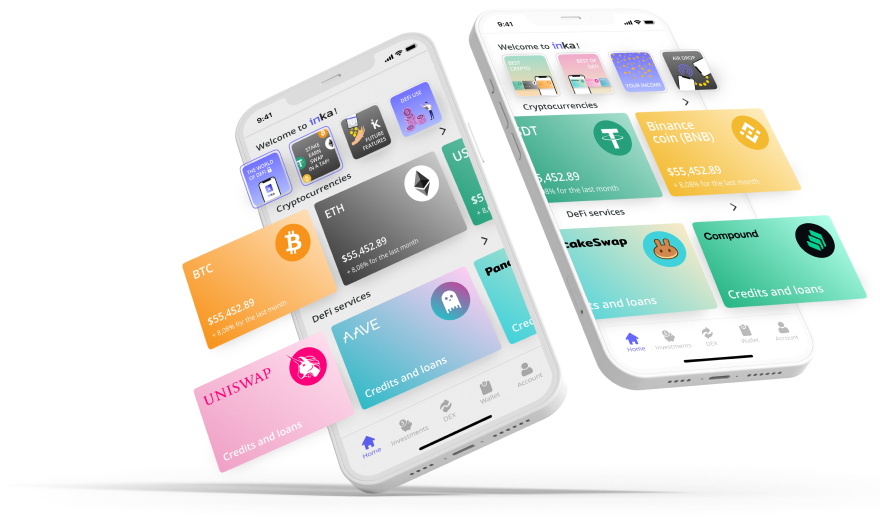
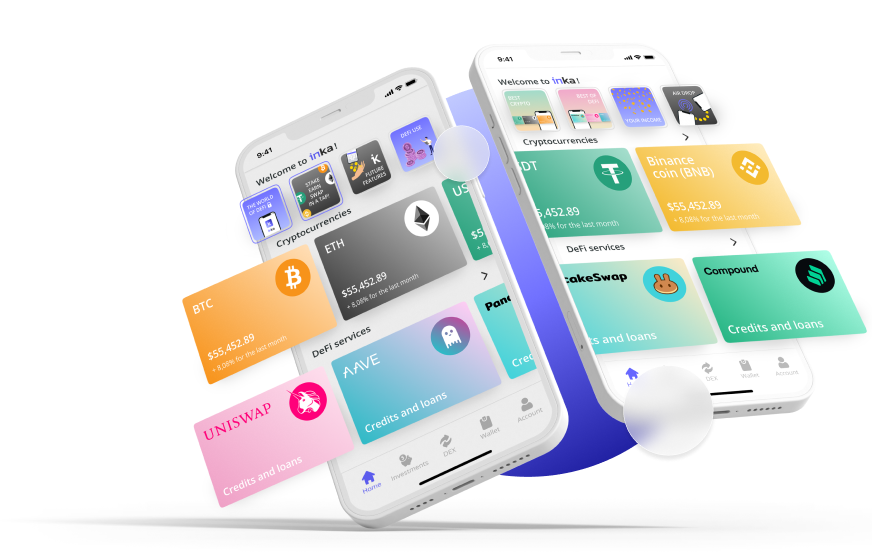
Правки

Changed region(s): [[0.1548, 0.0305, 1.0, 0.9752], [0.7122, 0.0305, 0.7431, 0.061], [0.3716, 0.7924, 0.4025, 0.8229]]

diff --git a/src/blocks/modules/cryptocurrencies/cryptocurrencies.js b/src/blocks/modules/cryptocurrencies/cryptocurrencies.js
@@ -5,9 +5,9 @@ const circle = document.querySelector(".cryptocurrencies__circle-inner"),
     cryptoAnimationInitBy = parseInt(document.querySelector(".cryptocurrencies__controll").dataset.animationHideCrypto);
 
 const runningAnimation = () => {
-    for (let i = 0; i <= smallCircles.length; i += 1) {
-        const realIndex = i + 1;
-        const activationAnimationClass = `cryptocurrencies__item-img_${realIndex}_transform`;
+    for (let i = 0; i < smallCircles.length; i += 1) {
+        const activationAnimationClass = `cryptocurrencies__item-img_${i}_transform`;
+        console.log(typeof activationAnimationClass);
         setInterval(() => {
             smallCircles[i].classList.add(activationAnimationClass);
             cryptocurrenciesCircleInner.classList.add("cryptocurrencies__circle-inner_scale")
@@ -18,21 +18,21 @@ const runningAnimation = () => {
                 cryptocurrenciesCircleInner.classList.remove("cryptocurrencies__circle-inner_scale")
             }, 4000);
         }, 2000);
+        smallCircles.forEach((el, index) => {
+            const realIndex = index + 1;
+            const activationAnimationClass = `cryptocurrencies__item-img_${realIndex}_transform`;
+            setInterval(() => {
+                el.classList.add(activationAnimationClass);
+                cryptocurrenciesCircleInner.classList.add("cryptocurrencies__circle-inner_scale")
+            }, cryptoAnimationInitBy * 1000 * 2);
+            setTimeout(function () {
+                setInterval(() => {
+                    el.classList.remove(activationAnimationClass);
+                    cryptocurrenciesCircleInner.classList.remove("cryptocurrencies__circle-inner_scale")
+                }, 4000);
+            }, 2000);
+        });
     }
-    // smallCircles.forEach((el, index) => {
-    //     const realIndex = index + 1;
-    //     const activationAnimationClass = `cryptocurrencies__item-img_${realIndex}_transform`;
-    //     setInterval(() => {
-    //         el.classList.add(activationAnimationClass);
-    //         cryptocurrenciesCircleInner.classList.add("cryptocurrencies__circle-inner_scale")
-    //     }, cryptoAnimationInitBy * 1000 * 2);
-    //     setTimeout(function () {
-    //         setInterval(() => {
-    //             el.classList.remove(activationAnimationClass);
-    //             cryptocurrenciesCircleInner.classList.remove("cryptocurrencies__circle-inner_scale")
-    //         }, 4000);
-    //     }, 2000);
-    // })
 }
 
 function cryptoAnimationControll() {

diff --git a/src/blocks/modules/stats/stats.scss b/src/blocks/modules/stats/stats.scss
@@ -18,7 +18,9 @@
             bottom: -40px;
             left: -30px;
             @media (min-width: $break_sm) {
-                bottom: -70px;
+                width: 143px;
+                height: 143px;
+                bottom: -88px;
                 left: 100px;
             }
         }
@@ -26,8 +28,10 @@
             top: 30%;
             right: -30px;
             @media (min-width: $break_sm) {
-                top: -7%;
+                top: -13%;
                 right: 10px;
+                width: 113px;
+                height: 113px;
             }
         }
     }
@@ -204,33 +208,33 @@
         left: 47px;
         z-index: 5;
         @media (min-width: $break_sm) {
+            width: 56px;
+            height: 56px;
             bottom: -20px;
-            left: 173px;
-            transform: rotate(-10deg);
+            left: 215px;
         }
         &_top {
             left: auto;
             bottom: auto;
-            top: 168px;
             right: -9px;
-            transform: rotate(-93deg);
+            top: 155px;
+            right: -9px;
             @media (min-width: $break_sm) {
-                display: none;
                 left: auto;
             }
         }
         &_shadow {
-            display: none;
-            top: -45px;
-            right: 85px;
-            left: auto;
-            bottom: auto;
-            transform: rotate(0deg);
             @media (min-width: $break_sm) {
+                left: auto;
+                transform: rotate(0deg);
                 display: block;
-                right: 70px;
+                right: 77px;
                 bottom: auto;
-                top: -40px;
+                top: -61px;
+            }
+            @media (min-width: $break_md) {
+                width: 56px;
+                height: 56px;
             }
         }
     }
